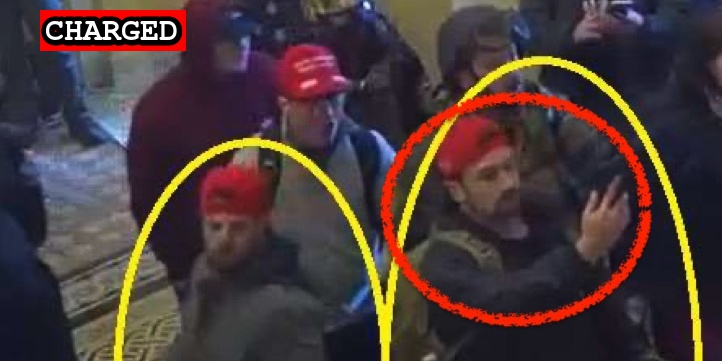
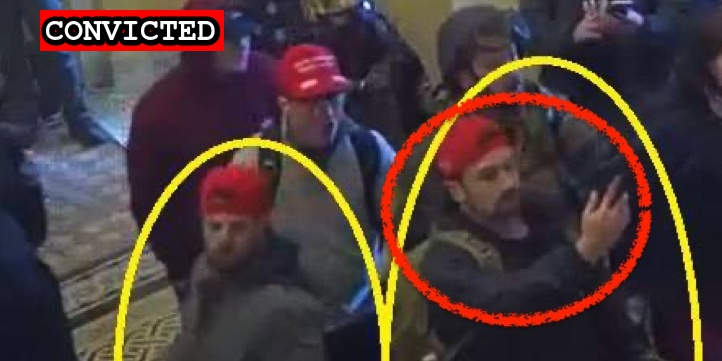
New conviction

Changed region(s): [[0.0914, 0.0, 0.3352, 0.1524]]

diff --git a/docs/_suspects/abram-markofski.md b/docs/_suspects/abram-markofski.md
@@ -3,11 +3,11 @@ name: Abram Markofski
 lastName: Markofski
 aka:
 residence: Wisconsin
-status: Charged
+status: Convicted
 date: 2021-04-27
 charged: 2021-04-27
 indicted:
-convicted:
+convicted: 2021-09-01
 sentenced:
 dismissed:
 deceased:
@@ -28,6 +28,11 @@ description: Click for latest case details. Suspects innocent until proven guilt
 author: seditiontrack
 layout: suspect
 published: true
+charges:
+  - code: '18 USC § 5104(e)(2)(G)'
+    title: 'Parading, Demonstrating or Picketing in a Capitol Building'
+    url: 'https://www.law.cornell.edu/uscode/text/40/5104'
+    felony: false
 ---
 
 - [News Report](https://www.channel3000.com/dane-co-la-crosse-co-men-charged-for-entering-u-s-capitol-during-january-6th-riot/)
